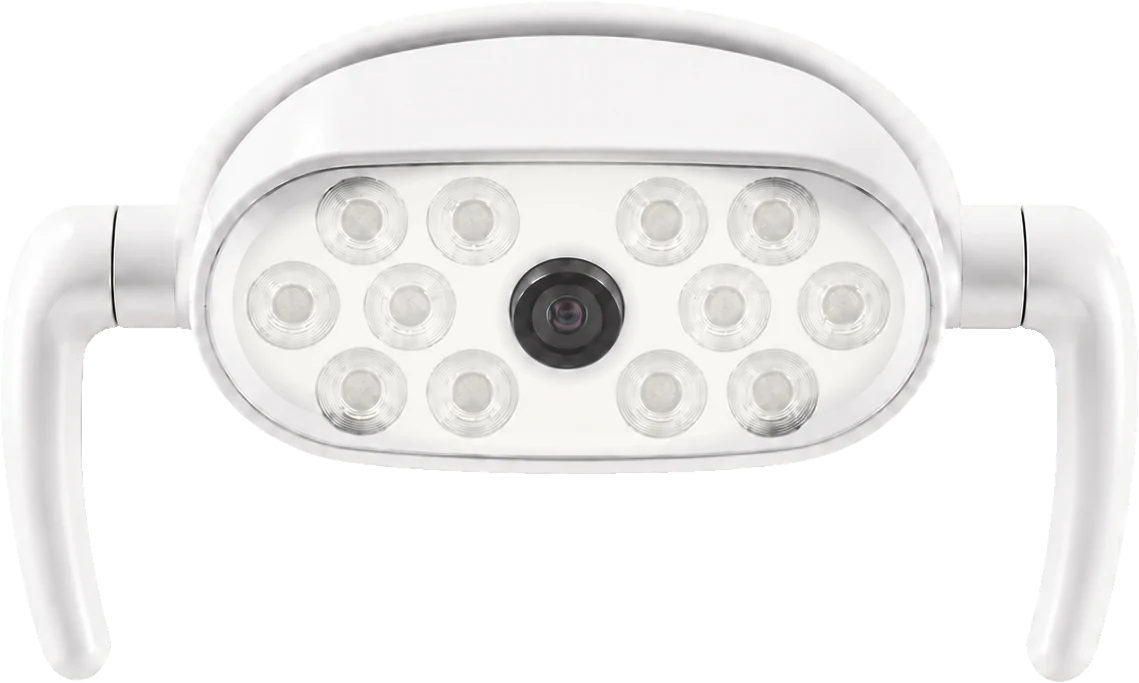
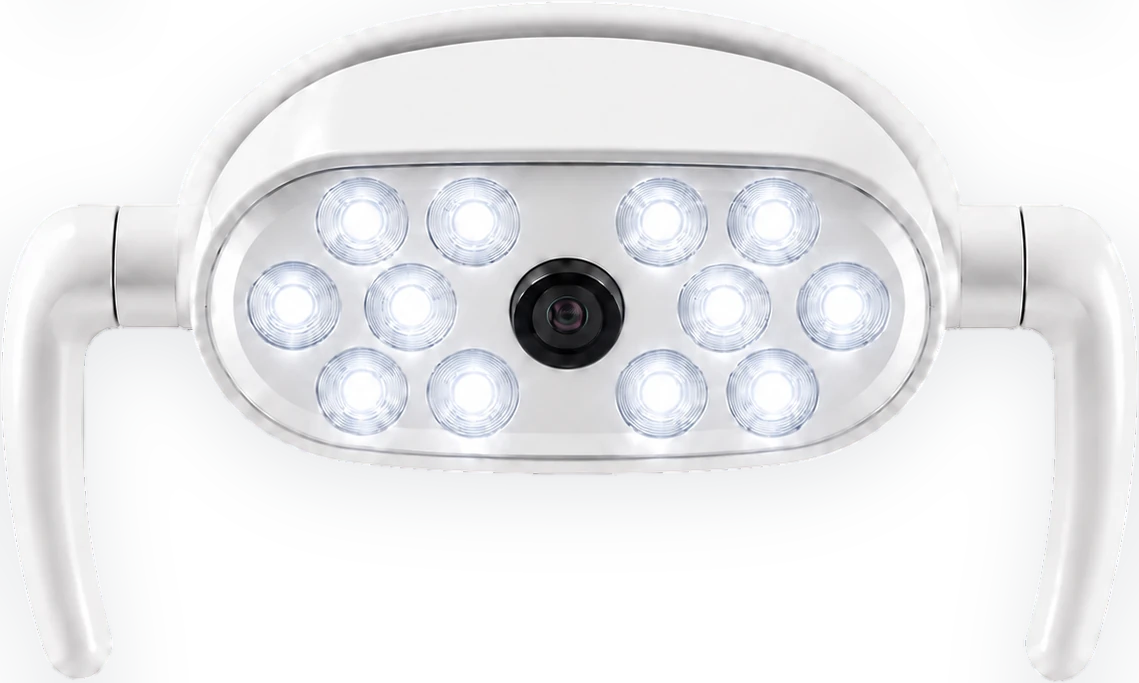
Настоящий свет лампы: горящее и раскалённое состояния с бликами
Свет включался одной картинкой и дальше не менялся — яркость держали
градиенты, и это читалось как дымка, а не как включённый прибор. Теперь у
лампы три состояния: погашенная, горящая (снимок с включёнными
светодиодами) и раскалённая. Раскалённая собирается из горящей: каждый
светодиод получает ореол и горизонтальный блик, панель тянется к белому,
свет выходит за силуэт прибора. Во время наезда лампа перетекает от
горящей к раскалённой — свет нарастает и уходит в засвет на растрах, а не
на расчёте градиентов, поэтому это почти ничего не стоит на кадре.

Снимки погашенной и горящей лампы сделаны отдельно и обрезаны по-разному —
совмещены по силуэту (совпадение 99,6 %), иначе при перетекании прибор бы
дёргался.

Под прибор запечена мягкая тень: даёт объём и не стоит ни кадра.

Сияние было ровной дымкой на пол-кадра — сердцевина сделана ярче, спад
быстрее, размер меньше: свет читается как исходящий от прибора.

Движение лампы за курсором вернулось и на браузерной дорожке: оно живёт
на отдельном слое, кадры анимации его не трогают.

Заглавное фото заменено на кадр с более удачной композицией; в галерее
врача — второй рабочий снимок.

Операционный микроскоп убран из оборудования: его в клинике нет. Заодно
убраны остальные упоминания — в направлениях, в вопросах и в описании
теперь бинокулярная оптика. Сетка оборудования стала по числу карточек.

Claude-Session: https://claude.ai/code/session_01Ui7H6U1Pji7C9dD6chSZKK

diff --git a/faq.html b/faq.html
@@ -13,14 +13,14 @@
 <meta property="og:type" content="website"><meta property="og:locale" content="ru_RU">
 <meta property="og:site_name" content="Академия улыбки">
 <meta property="og:title" content="Вопросы и ответы — стоматология «Академия улыбки», Сочи"><meta property="og:description" content="Ответы врача-стоматолога на частые вопросы: первый визит, гигиена и отбеливание, лечение, удаление, имплантация, коронки и виниры.">
-<meta property="og:url" content="https://akademiya-ulybki.ru/faq.html"><meta property="og:image" content="https://akademiya-ulybki.ru/assets/photo/work-1.jpg">
+<meta property="og:url" content="https://akademiya-ulybki.ru/faq.html"><meta property="og:image" content="https://akademiya-ulybki.ru/assets/photo/work-2.jpg">
 <meta name="twitter:card" content="summary_large_image">
 <meta name="referrer" content="strict-origin-when-cross-origin">
 <link rel="icon" href="assets/logo.svg" type="image/svg+xml">
 <link rel="preconnect" href="https://fonts.googleapis.com"><link rel="preconnect" href="https://fonts.gstatic.com" crossorigin>
 <link rel="stylesheet" href="https://fonts.googleapis.com/css2?family=Prata&family=Golos+Text:wght@400;500;600&display=swap">
 <link rel="stylesheet" href="styles.css">
-<script type="application/ld+json">{"@context": "https://schema.org", "@type": "FAQPage", "mainEntity": [{"@type": "Question", "name": "Как проходит первый визит?", "acceptedAnswer": {"@type": "Answer", "text": "Первичный приём длится около часа. Мы разговариваем о том, что беспокоит и чего вы ждёте, осматриваем полость рта, делаем фотопротокол и, если нужно, даём направление на снимок. В конце вы получаете письменный план лечения с этапами и стоимостью. Никаких процедур «заодно» в первый визит не делается — только по вашему решению."}}, {"@type": "Question", "name": "Почему консультация платная?", "acceptedAnswer": {"@type": "Answer", "text": "Потому что это час работы врача, а не десять минут осмотра «на бегу». За это время вы получаете документ — план и смету, — с которым можно пойти и в другую клинику. Если вы начинаете лечение у нас в течение 30 дней, стоимость консультации вычитается из его цены."}}, {"@type": "Question", "name": "Нужно ли брать с собой снимки и выписки?", "acceptedAnswer": {"@type": "Answer", "text": "Да, если они есть: панорамный снимок, КЛКТ, план из другой клиники, список принимаемых лекарств. Это экономит время и деньги — повторять свежие снимки не придётся."}}, {"@type": "Question", "name": "Можно ли прийти с острой болью без записи?", "acceptedAnswer": {"@type": "Answer", "text": "Позвоните — если в расписании есть окно, примем в тот же день. Острая боль всегда в приоритете: сначала снимаем её, потом планируем остальное."}}, {"@type": "Question", "name": "Есть ли рассрочка?", "acceptedAnswer": {"@type": "Answer", "text": "Да, для планового лечения. Условия зависят от объёма плана, поэтому обсуждаем их на приёме, когда план уже составлен."}}, {"@type": "Question", "name": "Можно ли получить налоговый вычет за лечение?", "acceptedAnswer": {"@type": "Answer", "text": "Да. Мы выдаём договор, копию лицензии и справку об оплате медицинских услуг по установленной форме — этого достаточно для вычета 13 %."}}, {"@type": "Question", "name": "Как часто нужна профессиональная чистка?", "acceptedAnswer": {"@type": "Answer", "text": "Большинству взрослых — раз в шесть месяцев. При заболеваниях дёсен, брекетах, имплантатах или курении — раз в три‑четыре месяца. Интервал врач назначает индивидуально после осмотра."}}, {"@type": "Question", "name": "Чем профессиональная чистка отличается от домашней?", "acceptedAnswer": {"@type": "Answer", "text": "Дома щётка убирает мягкий налёт. Зубной камень и налёт под десной и между зубами щётке недоступны — их снимают ультразвуком и порошком Air Flow. Чистка не «стачивает» эмаль: ультразвук работает по камню, а порошок — по налёту."}}, {"@type": "Question", "name": "Что нельзя делать после чистки?", "acceptedAnswer": {"@type": "Answer", "text": "Два‑три часа не есть и не пить ничего, кроме воды. Сутки — без красящих продуктов: кофе, чай, красное вино, свёкла, соевый соус, ягоды. Сутки — без курения. Эмаль после чистки более восприимчива к пигментам."}}, {"@type": "Question", "name": "Безопасно ли отбеливание?", "acceptedAnswer": {"@type": "Answer", "text": "Кабинетное и домашнее отбеливание по назначению врача — безопасная процедура для здоровой эмали. Небезопасно отбеливать зубы с кариесом, оголёнными шейками или на фоне воспаления дёсен — поэтому сначала осмотр и гигиена, потом отбеливание."}}, {"@type": "Question", "name": "Повышается ли чувствительность после отбеливания?", "acceptedAnswer": {"@type": "Answer", "text": "У части пациентов на один‑три дня — да. Это проходит. Снимается реминерализующими гелями и пастами для чувствительных зубов, которые мы даём с собой."}}, {"@type": "Question", "name": "Что такое «белая диета» и сколько её соблюдать?", "acceptedAnswer": {"@type": "Answer", "text": "Первые 48 часов после отбеливания — только светлые продукты и напитки: вода, молочное, курица, рис, белая рыба, светлые фрукты. В это время эмаль наиболее восприимчива к красителям."}}, {"@type": "Question", "name": "Можно ли отбелить зубы домашними средствами — содой, углём, перекисью?", "acceptedAnswer": {"@type": "Answer", "text": "Не советуем. Сода и уголь — абразивы, они царапают эмаль и делают зубы более матовыми и чувствительными. Аптечная перекись без контроля обжигает десну. Домашнее отбеливание существует, но в каппах и с гелем, который подбирает врач."}}, {"@type": "Question", "name": "Нужна ли зубная нить, если есть щётка?", "acceptedAnswer": {"@type": "Answer", "text": "Нужна. Щётка не проходит между зубами, а кариес чаще всего начинается именно там. Нить или ёршики — один раз в день, вечером. Ирригатор — хорошее дополнение, но не замена нити."}}, {"@type": "Question", "name": "Чистить зубы до завтрака или после?", "acceptedAnswer": {"@type": "Answer", "text": "Лучше после — так вы убираете остатки еды. Если завтракали кислым (сок, цитрусы), подождите 20–30 минут: сразу после кислоты эмаль мягче, и щётка её царапает."}}, {"@type": "Question", "name": "Обязательно ли лечить кариес, если зуб не болит?", "acceptedAnswer": {"@type": "Answer", "text": "Да. Боль появляется, когда процесс дошёл до нерва, — тогда вместо пломбы нужно лечение каналов, оно дольше и дороже. Кариес на ранней стадии лечится за один визит и без потери большого объёма зуба."}}, {"@type": "Question", "name": "Больно ли лечить зубы?", "acceptedAnswer": {"@type": "Answer", "text": "Лечение проходит под местной анестезией. Современные анестетики действуют через несколько минут и полностью убирают чувствительность на время процедуры. Если вы боитесь самого укола, скажите — место инъекции предварительно обезболивается гелем."}}, {"@type": "Question", "name": "Зачем при лечении каналов микроскоп?", "acceptedAnswer": {"@type": "Answer", "text": "Каналы тонкие и часто ветвятся. Под увеличением врач видит дополнительные каналы, трещины и остатки старого материала, которые не видны глазом. Это снижает риск повторного воспаления и перелечивания."}}, {"@type": "Question", "name": "Зачем нужен коффердам?", "acceptedAnswer": {"@type": "Answer", "text": "Это латексная завеса, которая изолирует зуб от слюны. Слюна — влага и бактерии; попадая в канал или под пломбу, она сокращает срок службы работы. С коффердамом ещё и комфортнее: в горло ничего не попадает."}}, {"@type": "Question", "name": "Может ли зуб болеть после лечения?", "acceptedAnswer": {"@type": "Answer", "text": "Небольшая чувствительность при накусывании один‑три дня после лечения каналов — нормальная реакция тканей. Если боль нарастает, держится дольше недели или появился отёк — позвоните, мы посмотрим."}}, {"@type": "Question", "name": "Можно ли лечить зубы во время беременности?", "acceptedAnswer": {"@type": "Answer", "text": "Можно и нужно: очаг инфекции во рту хуже для беременности, чем лечение. Оптимальное время — второй триместр. Используются анестетики без адреналина или с минимальной дозой, снимки — только при необходимости и с защитой. Сообщите врачу о сроке."}}, {"@type": "Question", "name": "Можно ли лечить зубы, если я принимаю разжижающие кровь препараты?", "acceptedAnswer": {"@type": "Answer", "text": "Да, но врач должен об этом знать заранее. Для удаления и хирургии может потребоваться согласование с вашим терапевтом или кардиологом. Самостоятельно отменять препараты нельзя."}}, {"@type": "Question", "name": "Обязательно ли удалять зубы мудрости?", "acceptedAnswer": {"@type": "Answer", "text": "Нет. Удаляют те, что растут неправильно, упираются в соседний зуб, регулярно воспаляются или не поддаются лечению. Здоровый, прорезавшийся и доступный для чистки зуб мудрости можно оставить."}}, {"@type": "Question", "name": "Что делать после удаления зуба?", "acceptedAnswer": {"@type": "Answer", "text": "Два часа не есть, сутки не полоскать рот, не греть щёку и не курить, не трогать лунку языком. Есть — на другой стороне, мягкое и не горячее. Небольшой отёк и дискомфорт один‑два дня — норма; нарастающая боль на третий‑четвёртый день — повод позвонить."}}, {"@type": "Question", "name": "Сколько заживает лунка и когда можно ставить имплантат?", "acceptedAnswer": {"@type": "Answer", "text": "Мягкие ткани закрываются за 1–2 недели, кость восстанавливается 3–4 месяца. Имплантат ставят либо сразу в лунку (если позволяют условия), либо через 2–4 месяца. Решение — по снимку."}}, {"@type": "Question", "name": "Сколько служат имплантаты?", "acceptedAnswer": {"@type": "Answer", "text": "При хорошей гигиене и регулярных осмотрах — десятилетиями; производители дают на сам имплантат длительную гарантию. Коронка на имплантате — расходная часть, её меняют примерно раз в 10–15 лет."}}, {"@type": "Question", "name": "Можно ли поставить имплантат, если зуб удалён давно?", "acceptedAnswer": {"@type": "Answer", "text": "Чаще всего да. Со временем кость в этом месте убывает, поэтому может понадобиться костная пластика — это удлиняет лечение на несколько месяцев, но не отменяет его. Точно ответить можно только по КЛКТ."}}, {"@type": "Question", "name": "Есть ли противопоказания к имплантации?", "acceptedAnswer": {"@type": "Answer", "text": "Есть — например, некомпенсированный диабет, некоторые заболевания крови и костей, курение в больших объёмах повышает риск. Большинство ограничений относительные: вопрос решается вместе с лечащим врачом по другим заболеваниям."}}, {"@type": "Question", "name": "Сколько служат коронки?", "acceptedAnswer": {"@type": "Answer", "text": "Цирконий и E‑max — в среднем 10–15 лет и дольше при хорошей гигиене. Главный враг коронки — кариес на границе с зубом, поэтому важны ёршики и осмотры раз в полгода."}}, {"@type": "Question", "name": "Нужно ли удалять нерв перед коронкой?", "acceptedAnswer": {"@type": "Answer", "text": "Не всегда. Живой зуб под коронкой служит дольше. Нерв удаляют, если он уже воспалён или зуб настолько разрушен, что без этого не обойтись. Решение — по состоянию конкретного зуба."}}, {"@type": "Question", "name": "Что делать, если слетела коронка?", "acceptedAnswer": {"@type": "Answer", "text": "Не выбрасывайте её и не пытайтесь приклеить сами. Позвоните — обычно коронку можно зафиксировать обратно, если зуб под ней цел."}}, {"@type": "Question", "name": "Чем виниры отличаются от коронок?", "acceptedAnswer": {"@type": "Answer", "text": "Винир закрывает только переднюю поверхность зуба и требует минимальной обработки — 0,3–0,7 мм. Коронка закрывает зуб целиком. Виниры — про внешний вид передних зубов, коронки — про восстановление разрушенных."}}, {"@type": "Question", "name": "Портят ли виниры зубы?", "acceptedAnswer": {"@type": "Answer", "text": "Под винир зуб обрабатывают на доли миллиметра, и обратно эта эмаль не вернётся — в этом смысле решение необратимо. Поэтому сначала делается цифровой макет и примерка: вы видите результат до обработки. При правильном уходе зуб под виниром служит так же, как без него."}}, {"@type": "Question", "name": "С какого возраста показывать ребёнка стоматологу?", "acceptedAnswer": {"@type": "Answer", "text": "Первый визит — около года, когда прорезались первые зубы, дальше — раз в полгода. Молочные зубы лечат: кариес на них влияет на зачатки постоянных."}}, {"@type": "Question", "name": "Принимаете ли детей?", "acceptedAnswer": {"@type": "Answer", "text": "Уточняется. Позвоните — администратор подскажет, с какого возраста и какие процедуры возможны."}}]}</script>
+<script type="application/ld+json">{"@context": "https://schema.org", "@type": "FAQPage", "mainEntity": [{"@type": "Question", "name": "Как проходит первый визит?", "acceptedAnswer": {"@type": "Answer", "text": "Первичный приём длится около часа. Мы разговариваем о том, что беспокоит и чего вы ждёте, осматриваем полость рта, делаем фотопротокол и, если нужно, даём направление на снимок. В конце вы получаете письменный план лечения с этапами и стоимостью. Никаких процедур «заодно» в первый визит не делается — только по вашему решению."}}, {"@type": "Question", "name": "Почему консультация платная?", "acceptedAnswer": {"@type": "Answer", "text": "Потому что это час работы врача, а не десять минут осмотра «на бегу». За это время вы получаете документ — план и смету, — с которым можно пойти и в другую клинику. Если вы начинаете лечение у нас в течение 30 дней, стоимость консультации вычитается из его цены."}}, {"@type": "Question", "name": "Нужно ли брать с собой снимки и выписки?", "acceptedAnswer": {"@type": "Answer", "text": "Да, если они есть: панорамный снимок, КЛКТ, план из другой клиники, список принимаемых лекарств. Это экономит время и деньги — повторять свежие снимки не придётся."}}, {"@type": "Question", "name": "Можно ли прийти с острой болью без записи?", "acceptedAnswer": {"@type": "Answer", "text": "Позвоните — если в расписании есть окно, примем в тот же день. Острая боль всегда в приоритете: сначала снимаем её, потом планируем остальное."}}, {"@type": "Question", "name": "Есть ли рассрочка?", "acceptedAnswer": {"@type": "Answer", "text": "Да, для планового лечения. Условия зависят от объёма плана, поэтому обсуждаем их на приёме, когда план уже составлен."}}, {"@type": "Question", "name": "Можно ли получить налоговый вычет за лечение?", "acceptedAnswer": {"@type": "Answer", "text": "Да. Мы выдаём договор, копию лицензии и справку об оплате медицинских услуг по установленной форме — этого достаточно для вычета 13 %."}}, {"@type": "Question", "name": "Как часто нужна профессиональная чистка?", "acceptedAnswer": {"@type": "Answer", "text": "Большинству взрослых — раз в шесть месяцев. При заболеваниях дёсен, брекетах, имплантатах или курении — раз в три‑четыре месяца. Интервал врач назначает индивидуально после осмотра."}}, {"@type": "Question", "name": "Чем профессиональная чистка отличается от домашней?", "acceptedAnswer": {"@type": "Answer", "text": "Дома щётка убирает мягкий налёт. Зубной камень и налёт под десной и между зубами щётке недоступны — их снимают ультразвуком и порошком Air Flow. Чистка не «стачивает» эмаль: ультразвук работает по камню, а порошок — по налёту."}}, {"@type": "Question", "name": "Что нельзя делать после чистки?", "acceptedAnswer": {"@type": "Answer", "text": "Два‑три часа не есть и не пить ничего, кроме воды. Сутки — без красящих продуктов: кофе, чай, красное вино, свёкла, соевый соус, ягоды. Сутки — без курения. Эмаль после чистки более восприимчива к пигментам."}}, {"@type": "Question", "name": "Безопасно ли отбеливание?", "acceptedAnswer": {"@type": "Answer", "text": "Кабинетное и домашнее отбеливание по назначению врача — безопасная процедура для здоровой эмали. Небезопасно отбеливать зубы с кариесом, оголёнными шейками или на фоне воспаления дёсен — поэтому сначала осмотр и гигиена, потом отбеливание."}}, {"@type": "Question", "name": "Повышается ли чувствительность после отбеливания?", "acceptedAnswer": {"@type": "Answer", "text": "У части пациентов на один‑три дня — да. Это проходит. Снимается реминерализующими гелями и пастами для чувствительных зубов, которые мы даём с собой."}}, {"@type": "Question", "name": "Что такое «белая диета» и сколько её соблюдать?", "acceptedAnswer": {"@type": "Answer", "text": "Первые 48 часов после отбеливания — только светлые продукты и напитки: вода, молочное, курица, рис, белая рыба, светлые фрукты. В это время эмаль наиболее восприимчива к красителям."}}, {"@type": "Question", "name": "Можно ли отбелить зубы домашними средствами — содой, углём, перекисью?", "acceptedAnswer": {"@type": "Answer", "text": "Не советуем. Сода и уголь — абразивы, они царапают эмаль и делают зубы более матовыми и чувствительными. Аптечная перекись без контроля обжигает десну. Домашнее отбеливание существует, но в каппах и с гелем, который подбирает врач."}}, {"@type": "Question", "name": "Нужна ли зубная нить, если есть щётка?", "acceptedAnswer": {"@type": "Answer", "text": "Нужна. Щётка не проходит между зубами, а кариес чаще всего начинается именно там. Нить или ёршики — один раз в день, вечером. Ирригатор — хорошее дополнение, но не замена нити."}}, {"@type": "Question", "name": "Чистить зубы до завтрака или после?", "acceptedAnswer": {"@type": "Answer", "text": "Лучше после — так вы убираете остатки еды. Если завтракали кислым (сок, цитрусы), подождите 20–30 минут: сразу после кислоты эмаль мягче, и щётка её царапает."}}, {"@type": "Question", "name": "Обязательно ли лечить кариес, если зуб не болит?", "acceptedAnswer": {"@type": "Answer", "text": "Да. Боль появляется, когда процесс дошёл до нерва, — тогда вместо пломбы нужно лечение каналов, оно дольше и дороже. Кариес на ранней стадии лечится за один визит и без потери большого объёма зуба."}}, {"@type": "Question", "name": "Больно ли лечить зубы?", "acceptedAnswer": {"@type": "Answer", "text": "Лечение проходит под местной анестезией. Современные анестетики действуют через несколько минут и полностью убирают чувствительность на время процедуры. Если вы боитесь самого укола, скажите — место инъекции предварительно обезболивается гелем."}}, {"@type": "Question", "name": "Зачем при лечении каналов увеличение?", "acceptedAnswer": {"@type": "Answer", "text": "Каналы тонкие и часто ветвятся. Врач работает в бинокулярной оптике: под увеличением видны дополнительные каналы, трещины и остатки старого материала, которые не различить глазом. Это снижает риск повторного воспаления и перелечивания."}}, {"@type": "Question", "name": "Зачем нужен коффердам?", "acceptedAnswer": {"@type": "Answer", "text": "Это латексная завеса, которая изолирует зуб от слюны. Слюна — влага и бактерии; попадая в канал или под пломбу, она сокращает срок службы работы. С коффердамом ещё и комфортнее: в горло ничего не попадает."}}, {"@type": "Question", "name": "Может ли зуб болеть после лечения?", "acceptedAnswer": {"@type": "Answer", "text": "Небольшая чувствительность при накусывании один‑три дня после лечения каналов — нормальная реакция тканей. Если боль нарастает, держится дольше недели или появился отёк — позвоните, мы посмотрим."}}, {"@type": "Question", "name": "Можно ли лечить зубы во время беременности?", "acceptedAnswer": {"@type": "Answer", "text": "Можно и нужно: очаг инфекции во рту хуже для беременности, чем лечение. Оптимальное время — второй триместр. Используются анестетики без адреналина или с минимальной дозой, снимки — только при необходимости и с защитой. Сообщите врачу о сроке."}}, {"@type": "Question", "name": "Можно ли лечить зубы, если я принимаю разжижающие кровь препараты?", "acceptedAnswer": {"@type": "Answer", "text": "Да, но врач должен об этом знать заранее. Для удаления и хирургии может потребоваться согласование с вашим терапевтом или кардиологом. Самостоятельно отменять препараты нельзя."}}, {"@type": "Question", "name": "Обязательно ли удалять зубы мудрости?", "acceptedAnswer": {"@type": "Answer", "text": "Нет. Удаляют те, что растут неправильно, упираются в соседний зуб, регулярно воспаляются или не поддаются лечению. Здоровый, прорезавшийся и доступный для чистки зуб мудрости можно оставить."}}, {"@type": "Question", "name": "Что делать после удаления зуба?", "acceptedAnswer": {"@type": "Answer", "text": "Два часа не есть, сутки не полоскать рот, не греть щёку и не курить, не трогать лунку языком. Есть — на другой стороне, мягкое и не горячее. Небольшой отёк и дискомфорт один‑два дня — норма; нарастающая боль на третий‑четвёртый день — повод позвонить."}}, {"@type": "Question", "name": "Сколько заживает лунка и когда можно ставить имплантат?", "acceptedAnswer": {"@type": "Answer", "text": "Мягкие ткани закрываются за 1–2 недели, кость восстанавливается 3–4 месяца. Имплантат ставят либо сразу в лунку (если позволяют условия), либо через 2–4 месяца. Решение — по снимку."}}, {"@type": "Question", "name": "Сколько служат имплантаты?", "acceptedAnswer": {"@type": "Answer", "text": "При хорошей гигиене и регулярных осмотрах — десятилетиями; производители дают на сам имплантат длительную гарантию. Коронка на имплантате — расходная часть, её меняют примерно раз в 10–15 лет."}}, {"@type": "Question", "name": "Можно ли поставить имплантат, если зуб удалён давно?", "acceptedAnswer": {"@type": "Answer", "text": "Чаще всего да. Со временем кость в этом месте убывает, поэтому может понадобиться костная пластика — это удлиняет лечение на несколько месяцев, но не отменяет его. Точно ответить можно только по КЛКТ."}}, {"@type": "Question", "name": "Есть ли противопоказания к имплантации?", "acceptedAnswer": {"@type": "Answer", "text": "Есть — например, некомпенсированный диабет, некоторые заболевания крови и костей, курение в больших объёмах повышает риск. Большинство ограничений относительные: вопрос решается вместе с лечащим врачом по другим заболеваниям."}}, {"@type": "Question", "name": "Сколько служат коронки?", "acceptedAnswer": {"@type": "Answer", "text": "Цирконий и E‑max — в среднем 10–15 лет и дольше при хорошей гигиене. Главный враг коронки — кариес на границе с зубом, поэтому важны ёршики и осмотры раз в полгода."}}, {"@type": "Question", "name": "Нужно ли удалять нерв перед коронкой?", "acceptedAnswer": {"@type": "Answer", "text": "Не всегда. Живой зуб под коронкой служит дольше. Нерв удаляют, если он уже воспалён или зуб настолько разрушен, что без этого не обойтись. Решение — по состоянию конкретного зуба."}}, {"@type": "Question", "name": "Что делать, если слетела коронка?", "acceptedAnswer": {"@type": "Answer", "text": "Не выбрасывайте её и не пытайтесь приклеить сами. Позвоните — обычно коронку можно зафиксировать обратно, если зуб под ней цел."}}, {"@type": "Question", "name": "Чем виниры отличаются от коронок?", "acceptedAnswer": {"@type": "Answer", "text": "Винир закрывает только переднюю поверхность зуба и требует минимальной обработки — 0,3–0,7 мм. Коронка закрывает зуб целиком. Виниры — про внешний вид передних зубов, коронки — про восстановление разрушенных."}}, {"@type": "Question", "name": "Портят ли виниры зубы?", "acceptedAnswer": {"@type": "Answer", "text": "Под винир зуб обрабатывают на доли миллиметра, и обратно эта эмаль не вернётся — в этом смысле решение необратимо. Поэтому сначала делается цифровой макет и примерка: вы видите результат до обработки. При правильном уходе зуб под виниром служит так же, как без него."}}, {"@type": "Question", "name": "С какого возраста показывать ребёнка стоматологу?", "acceptedAnswer": {"@type": "Answer", "text": "Первый визит — около года, когда прорезались первые зубы, дальше — раз в полгода. Молочные зубы лечат: кариес на них влияет на зачатки постоянных."}}, {"@type": "Question", "name": "Принимаете ли детей?", "acceptedAnswer": {"@type": "Answer", "text": "Уточняется. Позвоните — администратор подскажет, с какого возраста и какие процедуры возможны."}}]}</script>
 </head>
 <body>
 <script>document.documentElement.classList.add('js')</script>
@@ -62,7 +62,7 @@
 <details class="qa" name="faq"><summary><span>Чистить зубы до завтрака или после?</span><i aria-hidden="true"></i></summary><div class="qa__a"><p>Лучше после — так вы убираете остатки еды. Если завтракали кислым (сок, цитрусы), подождите 20–30 минут: сразу после кислоты эмаль мягче, и щётка её царапает.</p></div></details>
 </section><section class="faqg" id="t2"><h2>Лечение</h2><details class="qa" name="faq"><summary><span>Обязательно ли лечить кариес, если зуб не болит?</span><i aria-hidden="true"></i></summary><div class="qa__a"><p>Да. Боль появляется, когда процесс дошёл до нерва, — тогда вместо пломбы нужно лечение каналов, оно дольше и дороже. <b>Кариес на ранней стадии лечится за один визит</b> и без потери большого объёма зуба.</p></div></details>
 <details class="qa" name="faq"><summary><span>Больно ли лечить зубы?</span><i aria-hidden="true"></i></summary><div class="qa__a"><p>Лечение проходит <b>под местной анестезией</b>. Современные анестетики действуют через несколько минут и полностью убирают чувствительность на время процедуры. Если вы боитесь самого укола, скажите — место инъекции предварительно обезболивается гелем.</p></div></details>
-<details class="qa" name="faq"><summary><span>Зачем при лечении каналов микроскоп?</span><i aria-hidden="true"></i></summary><div class="qa__a"><p>Каналы тонкие и часто ветвятся. Под увеличением врач видит дополнительные каналы, трещины и остатки старого материала, которые не видны глазом. Это снижает риск повторного воспаления и перелечивания.</p></div></details>
+<details class="qa" name="faq"><summary><span>Зачем при лечении каналов увеличение?</span><i aria-hidden="true"></i></summary><div class="qa__a"><p>Каналы тонкие и часто ветвятся. Врач работает в бинокулярной оптике: под увеличением видны дополнительные каналы, трещины и остатки старого материала, которые не различить глазом. Это снижает риск повторного воспаления и перелечивания.</p></div></details>
 <details class="qa" name="faq"><summary><span>Зачем нужен коффердам?</span><i aria-hidden="true"></i></summary><div class="qa__a"><p>Это латексная завеса, которая изолирует зуб от слюны. Слюна — влага и бактерии; попадая в канал или под пломбу, она сокращает срок службы работы. С коффердамом ещё и комфортнее: в горло ничего не попадает.</p></div></details>
 <details class="qa" name="faq"><summary><span>Может ли зуб болеть после лечения?</span><i aria-hidden="true"></i></summary><div class="qa__a"><p>Небольшая чувствительность при накусывании один‑три дня после лечения каналов — нормальная реакция тканей. Если боль нарастает, держится дольше недели или появился отёк — позвоните, мы посмотрим.</p></div></details>
 <details class="qa" name="faq"><summary><span>Можно ли лечить зубы во время беременности?</span><i aria-hidden="true"></i></summary><div class="qa__a"><p><b>Можно и нужно:</b> очаг инфекции во рту хуже для беременности, чем лечение. <b>Оптимальное время — второй триместр.</b> Используются анестетики без адреналина или с минимальной дозой, снимки — только при необходимости и с защитой. Сообщите врачу о сроке.</p></div></details>

diff --git a/index.html b/index.html
@@ -13,7 +13,7 @@
 <meta property="og:type" content="website"><meta property="og:locale" content="ru_RU">
 <meta property="og:site_name" content="Академия улыбки">
 <meta property="og:title" content="Академия улыбки — стоматологическая клиника в Сочи, Виноградная 55/1"><meta property="og:description" content="Новая стоматологическая клиника в Сочи: лечение, имплантация, коронки и виниры. Час на первый приём, письменный план лечения. Виноградная, 55/1, 2‑й этаж. Тел. +7 (989) 751-28-51.">
-<meta property="og:url" content="https://akademiya-ulybki.ru/"><meta property="og:image" content="https://akademiya-ulybki.ru/assets/photo/work-1.jpg">
+<meta property="og:url" content="https://akademiya-ulybki.ru/"><meta property="og:image" content="https://akademiya-ulybki.ru/assets/photo/work-2.jpg">
 <meta name="twitter:card" content="summary_large_image">
 <meta name="referrer" content="strict-origin-when-cross-origin">
 <link rel="icon" href="assets/logo.svg" type="image/svg+xml">
@@ -53,6 +53,7 @@
         <button class="intro__lamp" id="intro-lamp" type="button" aria-label="Включить свет и перейти к сайту">
           <img class="intro__off" src="assets/cut/lamp-off.webp" alt="" width="1139" height="683" draggable="false">
           <img class="intro__on" src="assets/cut/lamp-on.webp" alt="" width="1139" height="683" draggable="false">
+          <img class="intro__hot" src="assets/cut/lamp-hot.webp" alt="" width="1139" height="683" draggable="false">
         </button>
       </div>
     </div>
@@ -74,7 +75,7 @@
       </div>
     </div>
     <figure class="hero__ph">
-      <img src="assets/photo/work-1.jpg" alt="Александра Белоусова на приёме" width="1448" height="1086" fetchpriority="high">
+      <img src="assets/photo/work-2.jpg" alt="Александра Белоусова на приёме" width="1448" height="1086" fetchpriority="high">
     </figure>
   </div>
 </section>
@@ -94,7 +95,7 @@
   <div class="wrap dirs__in">
     <header class="sec__head rv"><p class="eyebrow">Что мы делаем</p><h2>Шесть направлений — в одном кабинете</h2><p class="sec__note">Диагностику, лечение, хирургию и протезирование ведёт <b>один врач</b>, и за результат <b>отвечает один человек</b>. Раскройте направление, чтобы увидеть самое востребованное; полный прейскурант — на отдельной странице.</p><p><a class="btn" href="prices.html">Открыть прейскурант</a></p></header>
     <div class="dirs rv"><details class="dir qa" name="dir"><summary><span><b>Гигиена и профилактика</b><small>Чистка ультразвуком и Air Flow, фторирование, герметизация фиссур. <b>Рекомендуем раз в полгода.</b></small></span><i aria-hidden="true"></i></summary><div class="qa__a dir__a"><ul><li>Профессиональная гигиена, обе челюсти</li><li>Фторирование и полировка</li><li>Герметизация фиссур</li></ul><a class="lnk" href="prices.html#gigiena">Цены по направлению</a></div></details>
-<details class="dir qa" name="dir"><summary><span><b>Лечение зубов и каналов</b><small>Кариес, пульпит, перелечивание каналов. Работаем <b>под увеличением</b> и <b>с изоляцией коффердамом</b>.</small></span><i aria-hidden="true"></i></summary><div class="qa__a dir__a"><ul><li>Реставрация кариеса</li><li>Лечение каналов под микроскопом</li><li>Перелечивание после других клиник</li></ul><a class="lnk" href="prices.html#terapiya">Цены по направлению</a></div></details>
+<details class="dir qa" name="dir"><summary><span><b>Лечение зубов и каналов</b><small>Кариес, пульпит, перелечивание каналов. Работаем <b>под увеличением</b> и <b>с изоляцией коффердамом</b>.</small></span><i aria-hidden="true"></i></summary><div class="qa__a dir__a"><ul><li>Реставрация кариеса</li><li>Лечение каналов под увеличением</li><li>Перелечивание после других клиник</li></ul><a class="lnk" href="prices.html#terapiya">Цены по направлению</a></div></details>
 <details class="dir qa" name="dir"><summary><span><b>Лечение дёсен</b><small><b>Кровоточивость, подвижность зубов, неприятный запах</b> — диагностика и лечение пародонта.</small></span><i aria-hidden="true"></i></summary><div class="qa__a dir__a"><ul><li>Карта пародонта</li><li>Закрытый кюретаж</li><li>Поддерживающая терапия</li></ul><a class="lnk" href="prices.html#parodontologiya">Цены по направлению</a></div></details>
 <details class="dir qa" name="dir"><summary><span><b>Хирургия и имплантация</b><small>Удаление <b>любой сложности</b>, имплантаты <b>Osstem, Straumann и Nobel</b>, костная пластика.</small></span><i aria-hidden="true"></i></summary><div class="qa__a dir__a"><ul><li>Удаление зубов, в том числе мудрости</li><li>Имплантация с коронкой</li><li>Костная пластика и синус‑лифтинг</li></ul><a class="lnk" href="prices.html#hirurgiya">Цены по направлению</a></div></details>
 <details class="dir qa" name="dir"><summary><span><b>Коронки и протезирование</b><small><b>Цирконий и E‑max</b>, цифровые слепки, коронки на имплантатах, съёмные протезы.</small></span><i aria-hidden="true"></i></summary><div class="qa__a dir__a"><ul><li>Коронки из циркония</li><li>Коронки на имплантатах</li><li>Съёмные и условно‑съёмные протезы</li></ul><a class="lnk" href="prices.html#protezirovanie">Цены по направлению</a></div></details>
@@ -141,7 +142,6 @@
   <div class="wrap">
     <div class="equip__grid">
       <figure class="rv"><img class="bw" src="assets/editorial/chair.jpg" alt="Рабочее место врача" width="1600" height="1600" loading="lazy"><figcaption><b>Одно рабочее место</b><span>Один пациент в час. Максимальная приватность и фокус на результате</span></figcaption></figure>
-      <figure class="rv"><img class="bw" src="assets/editorial/microscope.jpg" alt="Операционный микроскоп" width="1600" height="1600" loading="lazy"><figcaption><b>Операционный микроскоп</b><span>Каналы, реставрации, виниры — под увеличением. Максимальная детализация работы, долговечный результат</span></figcaption></figure>
       <figure class="rv"><img class="bw" src="assets/editorial/scanner.jpg" alt="Внутриротовой сканер" width="1600" height="1600" loading="lazy"><figcaption><b>Внутриротовой сканер</b><span>Цифровые слепки без слепочной массы. Комфорт, точность, современные технологии</span></figcaption></figure>
       <figure class="rv"><img class="bw" src="assets/editorial/tray.jpg" alt="Стерильные инструменты" width="1600" height="1600" loading="lazy"><figcaption><b>Стерилизация</b><span>Автоклав и индивидуальная упаковка каждого набора. Бескомпромиссное внимание к чистоте и безопасности пациентов</span></figcaption></figure>
     </div>
@@ -209,7 +209,7 @@
     </div>
     <figure class="doc__ph rv" id="shots">
       <div class="shots__track">
-        <img class="bw is-cur" src="assets/photo/work-2.jpg" alt="Приём в клинике" width="1448" height="1086" loading="lazy">
+        <img class="bw is-cur" src="assets/photo/work-1.jpg" alt="Приём в клинике" width="1448" height="1086" loading="lazy">
         <img class="bw" src="assets/photo/cabinet.jpg" alt="Кабинет клиники" width="818" height="1456" loading="lazy">
       </div>
       <div class="shots__ui">

diff --git a/styles.css b/styles.css
@@ -118,7 +118,11 @@ body.nav-open .burger span::before{top:0;transform:rotate(45deg)}body.nav-open .
 .intro.is-lit .intro__off{visibility:hidden}
 /* после засвета лампу вообще не рисуем — она под белым и только жрёт кадры */
 .intro.is-blank .intro__stage,.intro.is-blank .intro__glow,.intro.is-blank .intro__bloom{visibility:hidden}
-.intro__on{position:absolute;inset:0;opacity:0;filter:none}
+.intro__on,.intro__hot{position:absolute;inset:0;opacity:0;filter:none}
+/* Раскалённое состояние — отдельная картинка с бликами на каждом светодиоде.
+   Свет во время наезда нарастает перетеканием растров, а не расчётом
+   градиентов: так он выглядит настоящим и почти ничего не стоит на кадре. */
+.intro.is-hot .intro__on{visibility:hidden}
 /* тихая жизнь до первого скролла: свет медленно дышит; при движении дыхание гаснет */
 .intro__aura{position:absolute;left:50%;top:50%;width:180%;aspect-ratio:1;translate:-50% -50%;border-radius:50%;pointer-events:none;
   background:radial-gradient(circle,rgba(255,253,247,.9) 0%,rgba(255,251,242,.62) 16%,rgba(255,250,238,.34) 30%,rgba(255,252,244,.12) 46%,rgba(255,255,255,0) 64%);
@@ -133,8 +137,8 @@ body.nav-open .burger span::before{top:0;transform:rotate(45deg)}body.nav-open .
    градиент шириной в несколько тысяч пикселей — это и была основная плата
    за вступление. Теперь размер у слоя постоянный, меняется только яркость:
    рост света берёт на себя ореол. */
-.intro__glow{position:absolute;left:50%;top:50%;width:133vmin;aspect-ratio:1;translate:-50% -50%;opacity:0;pointer-events:none;will-change:opacity;border-radius:50%;z-index:1;
-  background:radial-gradient(circle,rgba(255,255,255,.98) 0%,rgba(255,254,249,.92) 20%,rgba(255,253,246,.78) 34%,rgba(255,252,242,.52) 51%,rgba(255,252,240,.28) 67%,rgba(255,253,246,.10) 83%,rgba(255,255,255,0) 100%)}
+.intro__glow{position:absolute;left:50%;top:50%;width:118vmin;aspect-ratio:1;translate:-50% -50%;opacity:0;pointer-events:none;will-change:opacity;border-radius:50%;z-index:1;
+  background:radial-gradient(circle,rgba(255,255,255,1) 0%,rgba(255,255,253,1) 15%,rgba(255,254,250,.88) 28%,rgba(255,253,246,.55) 43%,rgba(255,252,242,.26) 60%,rgba(255,253,246,.08) 79%,rgba(255,255,255,0) 100%)}
 /* Слоган в две строки: одна над прибором, вторая под ним, одним шрифтом и
    кеглем. Отступы считаем от центра кадра, чтобы обе строки держались
    на равном расстоянии от лампы при любой ширине экрана. */
@@ -388,7 +392,8 @@ body.nav-open .burger span::before{top:0;transform:rotate(45deg)}body.nav-open .
 
 /* КАБИНЕТ */
 .equip--plain{padding-block:clamp(48px,6vw,84px)}
-.equip__grid{display:grid;grid-template-columns:repeat(4,1fr);gap:clamp(16px,2vw,28px)}
+/* колонок ровно столько, сколько карточек: сетка не оставляет пустого места */
+.equip__grid{display:grid;grid-template-columns:repeat(auto-fit,minmax(220px,1fr));gap:clamp(16px,2vw,28px)}
 .equip__grid figure{margin:0}
 .equip__grid img{aspect-ratio:4/5;object-fit:cover;width:100%}
 .equip__grid figcaption{margin-top:14px}
@@ -504,6 +509,7 @@ html.lite .ftr{content-visibility:auto;contain-intrinsic-size:auto 620px}
    скрипт один раз в переменную --intro-len. */
 @supports (animation-timeline: scroll()){
   html.sda .intro__on,
+  html.sda .intro__hot,
   html.sda .intro__stage,
   html.sda .intro__glow,
   html.sda .intro__bloom,
@@ -524,6 +530,7 @@ html.lite .ftr{content-visibility:auto;contain-intrinsic-size:auto 620px}
      cubic-bezier(.32,0,.67,0) — power2.in. */
   html.sda .intro__stage{animation-name:iZoom,iStageOut;transform-origin:50% 50%}
   html.sda .intro__on{animation-name:iOn}
+  html.sda .intro__hot{animation-name:iHot}
   html.sda .intro__glow{animation-name:iGlow}
   html.sda .intro__bloom{animation-name:iBloomFade,iBloomScale}
   html.sda .intro__flash{animation-name:iFlash}
@@ -533,6 +540,7 @@ html.lite .ftr{content-visibility:auto;contain-intrinsic-size:auto 620px}
   html.sda .intro.is-tall .intro__inner{animation-name:iVeil}
 
   @keyframes iOn{0%{opacity:0}18%,100%{opacity:1}}
+  @keyframes iHot{0%,18%{opacity:0}62%,100%{opacity:1}}
   @keyframes iZoom{
     0%,18%{transform:scale(1);animation-timing-function:cubic-bezier(.11,0,.5,0)}
     76%,100%{transform:scale(2.8)}

diff --git a/main.js b/main.js
@@ -137,6 +137,7 @@
     const par   = $('#intro-par'),
           stage = $('.intro__stage', box),
           on    = $('.intro__on', box),
+          hotim = $('.intro__hot', box),
           glow  = $('.intro__glow', box),
           bloom = $('.intro__bloom', box),
           flash = $('.intro__flash', box),
@@ -152,7 +153,8 @@
        перевести шкалу в эту точку: свет вспыхивает, надписи уходят, а размер
        кадра при этом не меняется ни на пиксель.
          0.00–0.12  слоган и подсказка уходят
-         0.00–0.18  лампа разгорается ровно, от погашенной до полной
+         0.00–0.18  лампа разгорается ровно, от погашенной до горящей
+         0.18–0.62  свет продолжает расти: горящая перетекает в раскалённую
          0.18–0.76  наезд 1→2.8 одной дугой, всё быстрее к концу
          0.18–0.72  сияние набирает силу ровно, без ступеней
          0.26–0.78  ореол расходится по кадру, всё быстрее
@@ -189,6 +191,7 @@
     gsap.set(glow,  { xPercent: -50, yPercent: -50, opacity: 0 });
     gsap.set(bloom, { xPercent: -50, yPercent: -50, scale: .18, opacity: 0 });
     gsap.set(on,    { opacity: 0 });
+    gsap.set(hotim, { opacity: 0 });
     gsap.set(flash, { opacity: 0 });
     gsap.set(slogan.concat([hint]), { opacity: 1, y: 0 });
 
@@ -198,6 +201,9 @@
       .to(hint,   { opacity: 0, duration: .09, ease: 'power1.in' }, 0)
       /* свет разгорается ровно: яркость растёт с постоянной скоростью */
       .to(on,     { opacity: 1, duration: .18 }, 0)
+      /* дальше свет продолжает набирать силу: лампа перетекает в раскалённую
+         копию с бликами на каждом светодиоде */
+      .to(hotim,  { opacity: 1, duration: .44 }, .18)
       /* наезд одной дугой с разгоном — начинается, когда свет уже полный */
       .to(stage,  { scale: 2.8, duration: .58, ease: 'power1.in' }, .18)
       .to(glow,   { opacity: 1, duration: .54 }, .18)
@@ -221,6 +227,7 @@
       box.classList.toggle('is-moving', pos > .004);
       /* кадр залит белым — лампу и сияние снимаем с отрисовки совсем */
       box.classList.toggle('is-lit', pos > .20);
+      box.classList.toggle('is-hot', pos > .66);
       box.classList.toggle('is-blank', pos > .76);
       html.classList.toggle('ready', open);
       if (open) lite(false);
@@ -234,7 +241,7 @@
     }
 
     /* лампа едва заметно ведёт за курсором */
-    if (finePointer && !reduced && !SDA) {
+    if (finePointer && !reduced) {
       const qx = gsap.quickTo(par, 'x', { duration: 1.2, ease: 'power2.out' }),
             qy = gsap.quickTo(par, 'y', { duration: 1.2, ease: 'power2.out' });
       box.addEventListener('pointermove', e => {

diff --git a/prices.html b/prices.html
@@ -13,7 +13,7 @@
 <meta property="og:type" content="website"><meta property="og:locale" content="ru_RU">
 <meta property="og:site_name" content="Академия улыбки">
 <meta property="og:title" content="Цены на услуги — стоматология «Академия улыбки», Сочи"><meta property="og:description" content="Прейскурант стоматологической клиники «Академия улыбки» в Сочи: консультация, гигиена, лечение, хирургия, имплантация, протезирование, виниры.">
-<meta property="og:url" content="https://akademiya-ulybki.ru/prices.html"><meta property="og:image" content="https://akademiya-ulybki.ru/assets/photo/work-1.jpg">
+<meta property="og:url" content="https://akademiya-ulybki.ru/prices.html"><meta property="og:image" content="https://akademiya-ulybki.ru/assets/photo/work-2.jpg">
 <meta name="twitter:card" content="summary_large_image">
 <meta name="referrer" content="strict-origin-when-cross-origin">
 <link rel="icon" href="assets/logo.svg" type="image/svg+xml">

diff --git a/info.html b/info.html
@@ -13,7 +13,7 @@
 <meta property="og:type" content="website"><meta property="og:locale" content="ru_RU">
 <meta property="og:site_name" content="Академия улыбки">
 <meta property="og:title" content="Сведения о клинике — Академия улыбки, Сочи"><meta property="og:description" content="Реквизиты ООО «Академия улыбки», лицензия на медицинскую деятельность, сведения о враче, права пациента и контакты контролирующих органов.">
-<meta property="og:url" content="https://akademiya-ulybki.ru/info.html"><meta property="og:image" content="https://akademiya-ulybki.ru/assets/photo/work-1.jpg">
+<meta property="og:url" content="https://akademiya-ulybki.ru/info.html"><meta property="og:image" content="https://akademiya-ulybki.ru/assets/photo/work-2.jpg">
 <meta name="twitter:card" content="summary_large_image">
 <meta name="referrer" content="strict-origin-when-cross-origin">
 <link rel="icon" href="assets/logo.svg" type="image/svg+xml">

diff --git a/privacy.html b/privacy.html
@@ -13,7 +13,7 @@
 <meta property="og:type" content="website"><meta property="og:locale" content="ru_RU">
 <meta property="og:site_name" content="Академия улыбки">
 <meta property="og:title" content="Политика обработки персональных данных — Академия улыбки"><meta property="og:description" content="Как ООО «Академия улыбки» обрабатывает персональные данные посетителей сайта и какие cookie использует.">
-<meta property="og:url" content="https://akademiya-ulybki.ru/privacy.html"><meta property="og:image" content="https://akademiya-ulybki.ru/assets/photo/work-1.jpg">
+<meta property="og:url" content="https://akademiya-ulybki.ru/privacy.html"><meta property="og:image" content="https://akademiya-ulybki.ru/assets/photo/work-2.jpg">
 <meta name="twitter:card" content="summary_large_image">
 <meta name="referrer" content="strict-origin-when-cross-origin">
 <link rel="icon" href="assets/logo.svg" type="image/svg+xml">
